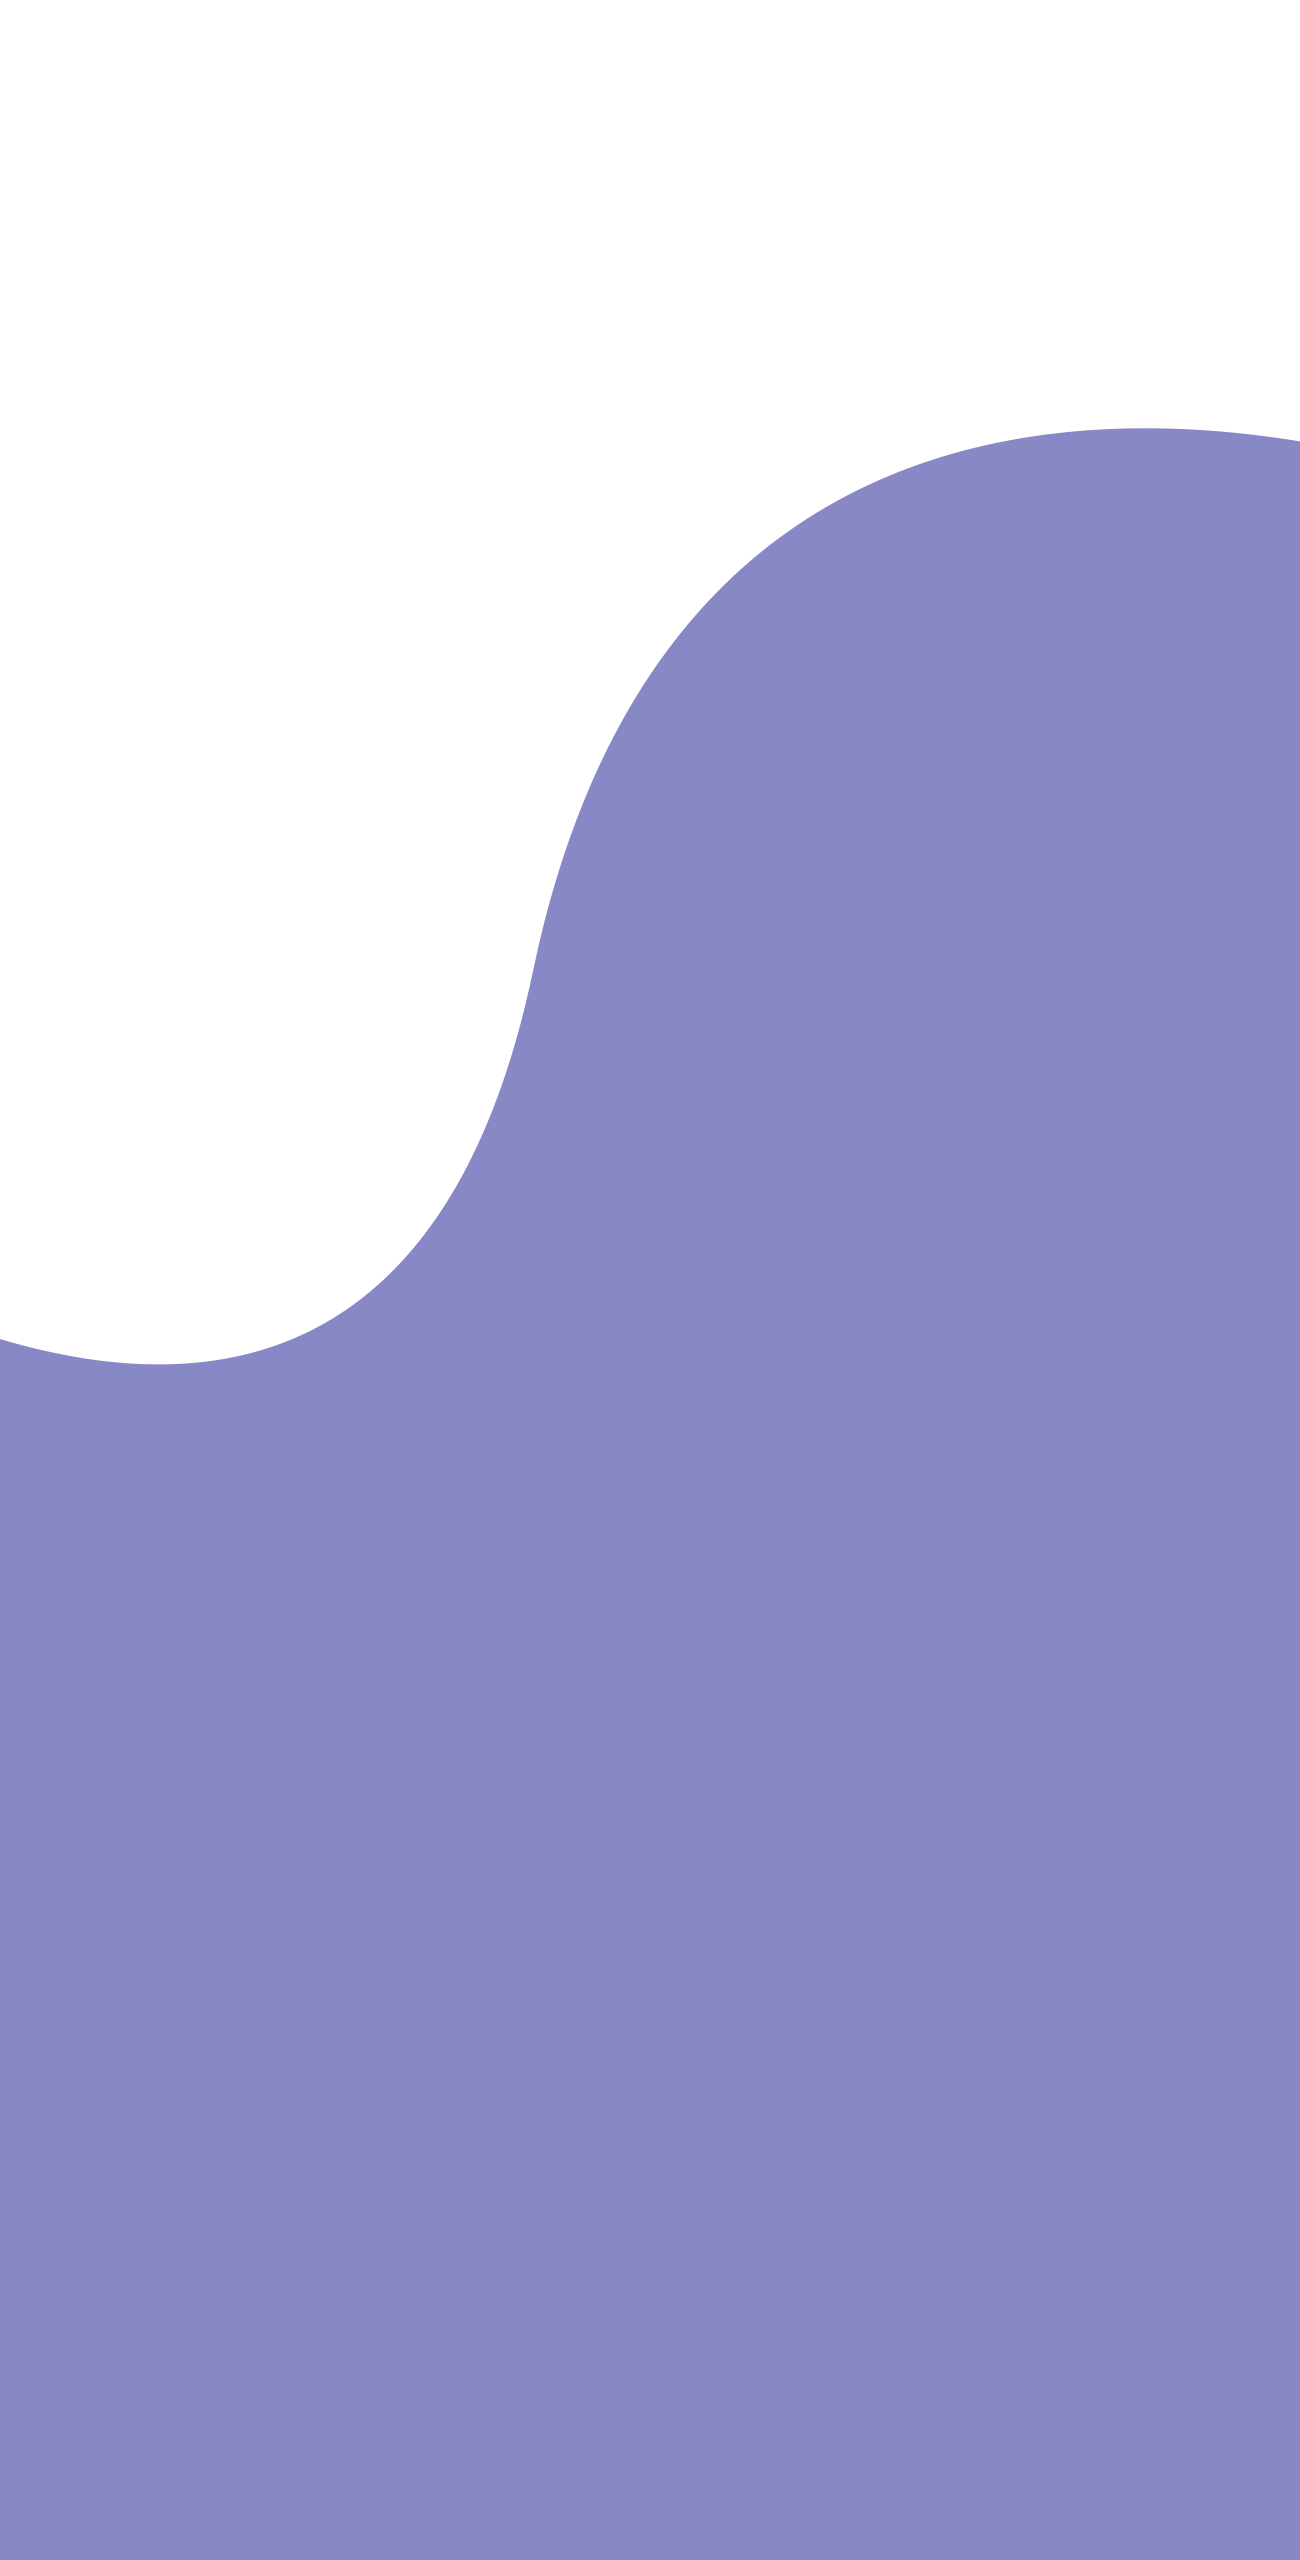
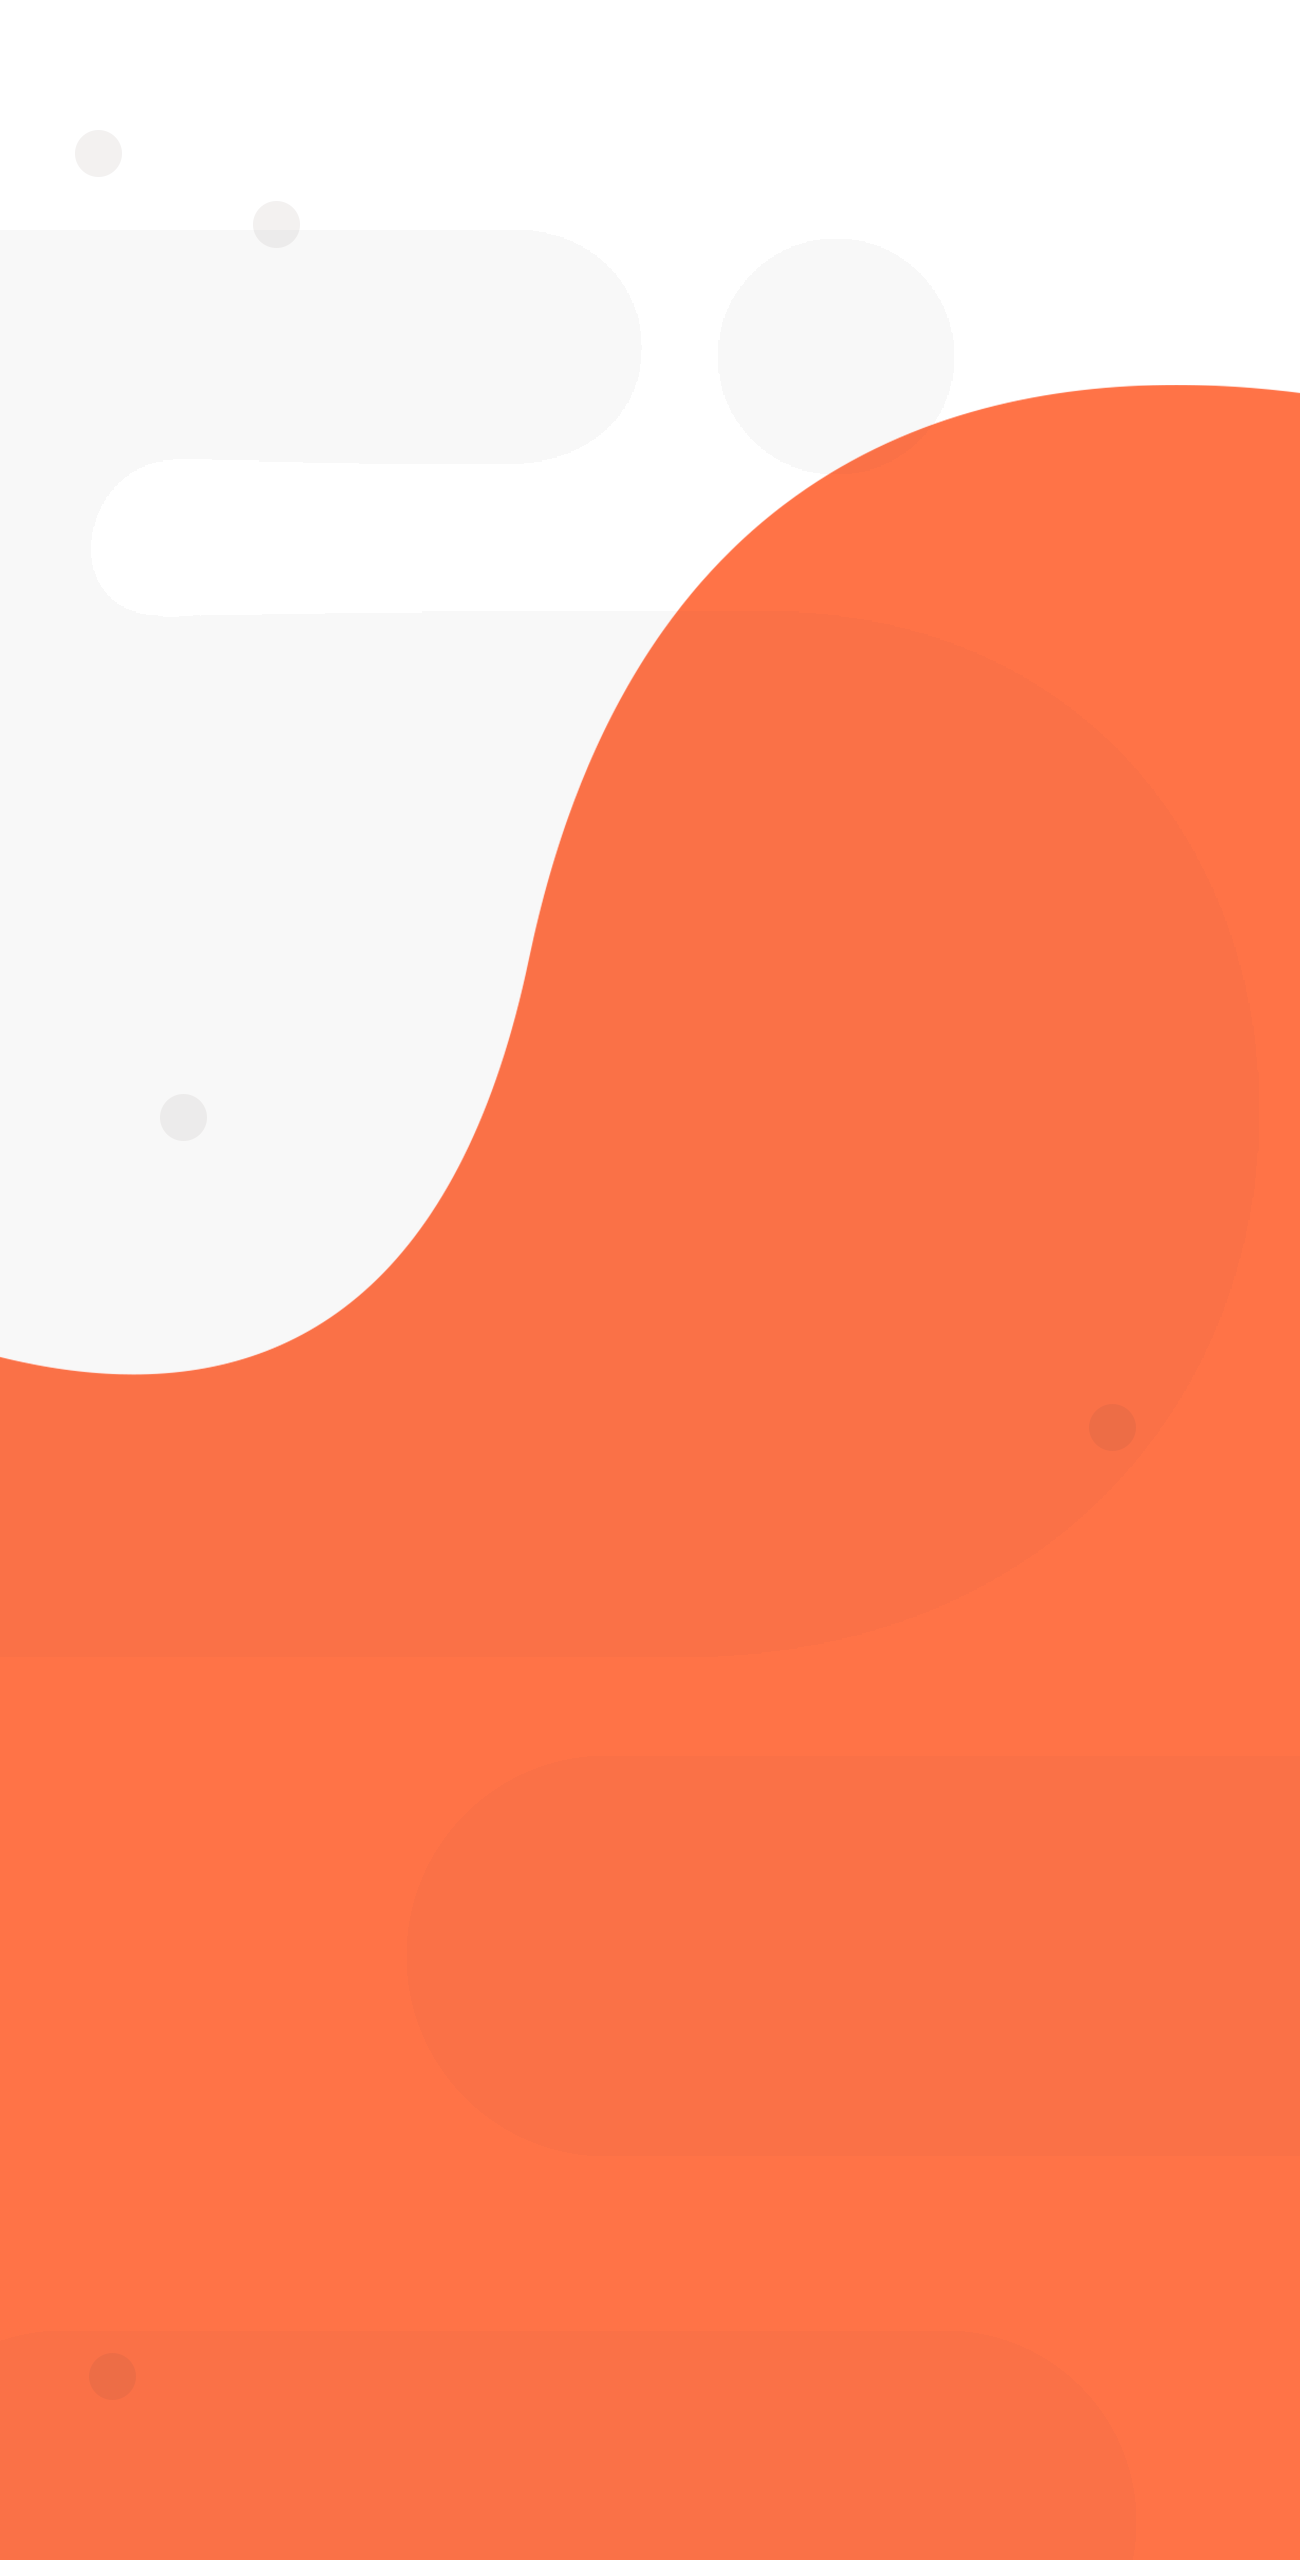
@marialuisacp changing theme colors

diff --git a/src/assets/Colors.js b/src/assets/Colors.js
@@ -1,30 +1,33 @@
 export const colors = {
-  PINK: '#FF9ACF',
-  PURPLE: '#8686C1',
-  BLUE1: '#00CDCD',
-  BLUE2: '#439acf',
-  GREEN: '#7FCD98',
-  YELLOW: '#FFCD5E',
-  WHITE: '#f3f1f6'
+  PINK: '#EF8EAC',
+  ORANGE: '#E3724B',
+  ORANGE2: '#E3724B',
+  BLUE: '#6197B5',
+  GREEN: '#A9D16F',
+  YELLOW: '#FFCC66',
+  BROWN: '#534741',
+  WHITE: '#F3F1F6'
 }
 
 export const colorsDarkened = {
-  PINK: '#ff74d4',
-  PURPLE: '#857bbe',
-  BLUE1: '#00bad2',
-  BLUE2: '#4b78d3',
-  GREEN: '#7eb898',
-  YELLOW: '#ffba6a',
-  WHITE: '#ede4f0'
+  PINK: '#D8839C',
+  ORANGE: '#C86A4A',
+  ORANGE2: '#E37D62',
+  BLUE: '#5F8BA4',
+  GREEN: '#9CBC68',
+  YELLOW: '#E5B860',
+  BROWN: '#534741',
+  WHITE: '#EDE4F0'
 };
 
 export const colorsLighted = {
-  PINK: '#ffa7d5',
-  PURPLE: '#9797cc',
-  BLUE1: '#21d3d3',
-  BLUE2: '#5ba7d5',
-  GREEN: '#90d3a5',
-  YELLOW: '#ffd373',
-  WHITE: '#fff'
+  PINK: '#F2A1BA',
+  ORANGE: '#E38869',
+  ORANGE2: '#FD9B81',
+  BLUE: '#7CA9C1',
+  GREEN: '#B8D987',
+  YELLOW: '#FFD580',
+  BROWN: '#706661',
+  WHITE: '#FFFFFF'
 };
 

diff --git a/src/screens/steps/Steps.js b/src/screens/steps/Steps.js
@@ -47,7 +47,7 @@ const Steps = () => {
 
         <ButtonProject
           text={'Start now'}
-          textColor={colors.PURPLE}
+          textColor={colors.ORANGE}
           background={colors.WHITE}
           onPress={() => { }}
           icon={faCheck}

diff --git a/src/screens/steps/Steps.styles.js b/src/screens/steps/Steps.styles.js
@@ -27,7 +27,7 @@ export const TitleApp = styled.Text`
 
 export const SubTitleApp = styled.Text`
   text-align: center;
-  color: ${colors.PINK};
+  color: ${colors.YELLOW};
   font-weight: bold;
   margin-top: 20px;
   margin-bottom: 40px;
